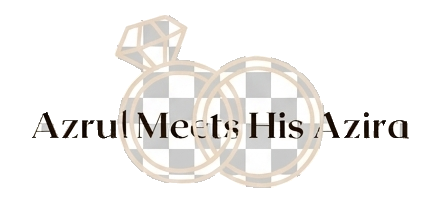
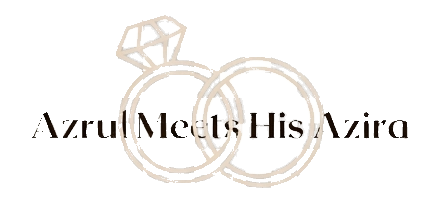
Properly remove background from jemputan-istimewa.png with clean transparency
Three-pass removal: edge flood-fill, global achromatic cleanup, and gradient
fade on transition pixels. Zero fully-opaque background pixels remain.
Remove mix-blend-mode workaround — transparent PNG renders cleanly now.

https://claude.ai/code/session_018x4b2J1n9CXnyv5J8g76ME

diff --git a/index.html b/index.html
@@ -725,7 +725,7 @@ html,body{width:100%;max-width:100vw;overflow-x:hidden;font-family:'EB Garamond'
 <span class="slbl rev">— Jemputan Istimewa —</span>
 <div class="gl rev"></div>
 <div class="rev" style="text-align:center;margin:12px 0;">
-  <img src="jemputan-istimewa.png" alt="Jemputan Istimewa" style="width:clamp(180px,60vw,280px);height:auto;display:block;margin:0 auto;mix-blend-mode:multiply;">
+  <img src="jemputan-istimewa.png" alt="Jemputan Istimewa" style="width:clamp(180px,60vw,280px);height:auto;display:block;margin:0 auto;">
 </div>
 <div class="ibox rev">
   <p class="itx">ASALAMUALAIKUM</p>
